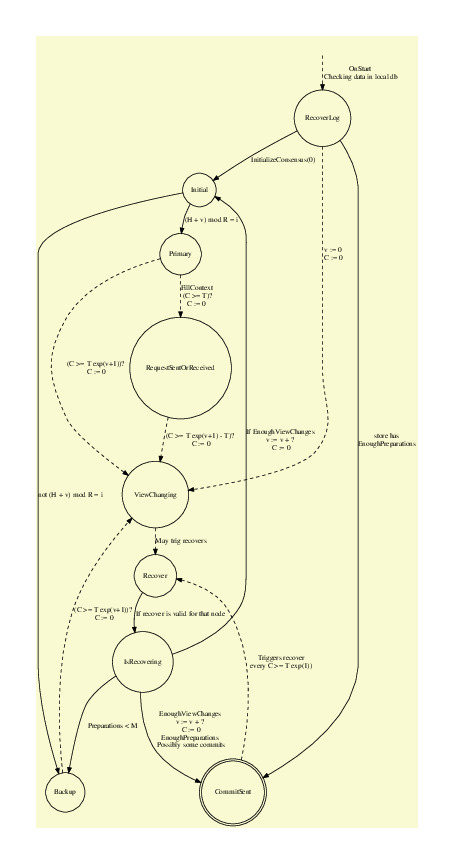
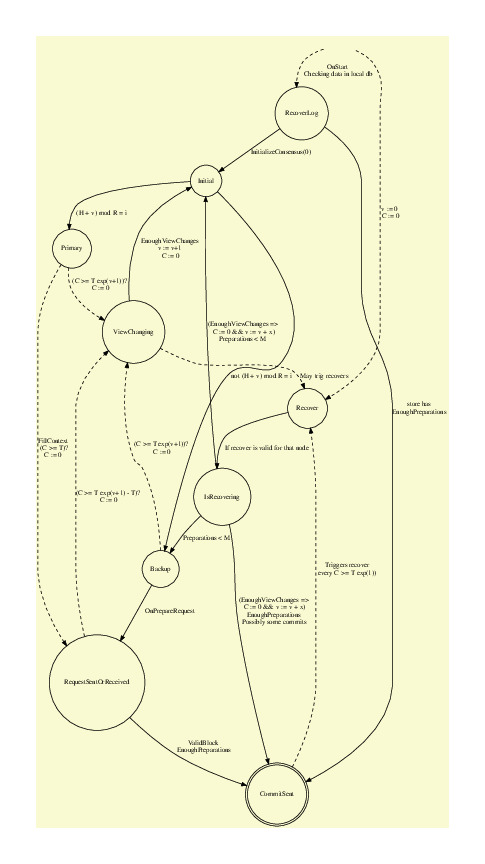
Additional adjustmentments on Recover

diff --git a/sections/08_dBFT.md b/sections/08_dBFT.md
@@ -242,19 +242,22 @@ digraph dBFT {
   node [shape = doublecircle]; CommitSent;
 	node [shape = circle];
   Empty -> RecoverLog [label = "OnStart\n Checking data in local db", style="dashed"];
+  Empty -> Recover [ label = "v := 0\n C := 0", style="dashed" ];
   RecoverLog -> Initial [label = "InitializeConsensus(0)"];
   RecoverLog -> CommitSent [label = "store has\nEnoughPreparations"];
-  RecoverLog -> ViewChanging [ label = "v := 0\n C := 0", style="dashed" ];
 	Initial -> Primary [ label = "(H + v) mod R = i" ];
 	Initial -> Backup [ label = "not (H + v) mod R = i" ];
   Backup -> ViewChanging [ label = "(C >= T exp(v+1))?\n C := 0", style="dashed" ];
+  Backup -> RequestSentOrReceived [ label = "OnPrepareRequest" ];
   Primary -> ViewChanging [label = "(C >= T exp(v+1))?\n C := 0", style="dashed"];
 	Primary -> RequestSentOrReceived [ label = "FillContext\n (C >= T)?\nC := 0", style="dashed" ];
-  RequestSentOrReceived -> ViewChanging [ label = "(C >= T exp(v+1) - T)?\n C := 0", style="dashed" ];  
+  RequestSentOrReceived -> ViewChanging [ label = "(C >= T exp(v+1) - T)?\n C := 0", style="dashed" ];
+  RequestSentOrReceived -> CommitSent [ label = "ValidBlock\n EnoughPreparations" ];
 	ViewChanging -> Recover [ label = "May trig recovers", style="dashed" ];
+  ViewChanging -> Initial [ label = "EnoughViewChanges\n v := v+1 \n C := 0" ];
   IsRecovering -> Backup [ label = "Preparations < M" ];
-  IsRecovering -> Initial [ label = "If EnoughViewChanges\n v := v + ? \n C := 0" ];
-  IsRecovering -> CommitSent [ label = "\nEnoughViewChanges\n v := v + ? \n C := 0\nEnoughPreparations\n Possibly some commits" ];
+  IsRecovering -> Initial [ label = "(EnoughViewChanges =>\n C := 0 && v := v + x)\nPreparations < M" ];
+  IsRecovering -> CommitSent [ label = "(EnoughViewChanges =>\n C := 0 && v := v + x)\nEnoughPreparations\n Possibly some commits" ];
   CommitSent -> Recover [ label = "Triggers recover\n every C >= T exp(1)) ", style="dashed" ];
   Recover -> IsRecovering [ label = "If recover is valid for that node" ];
 }
